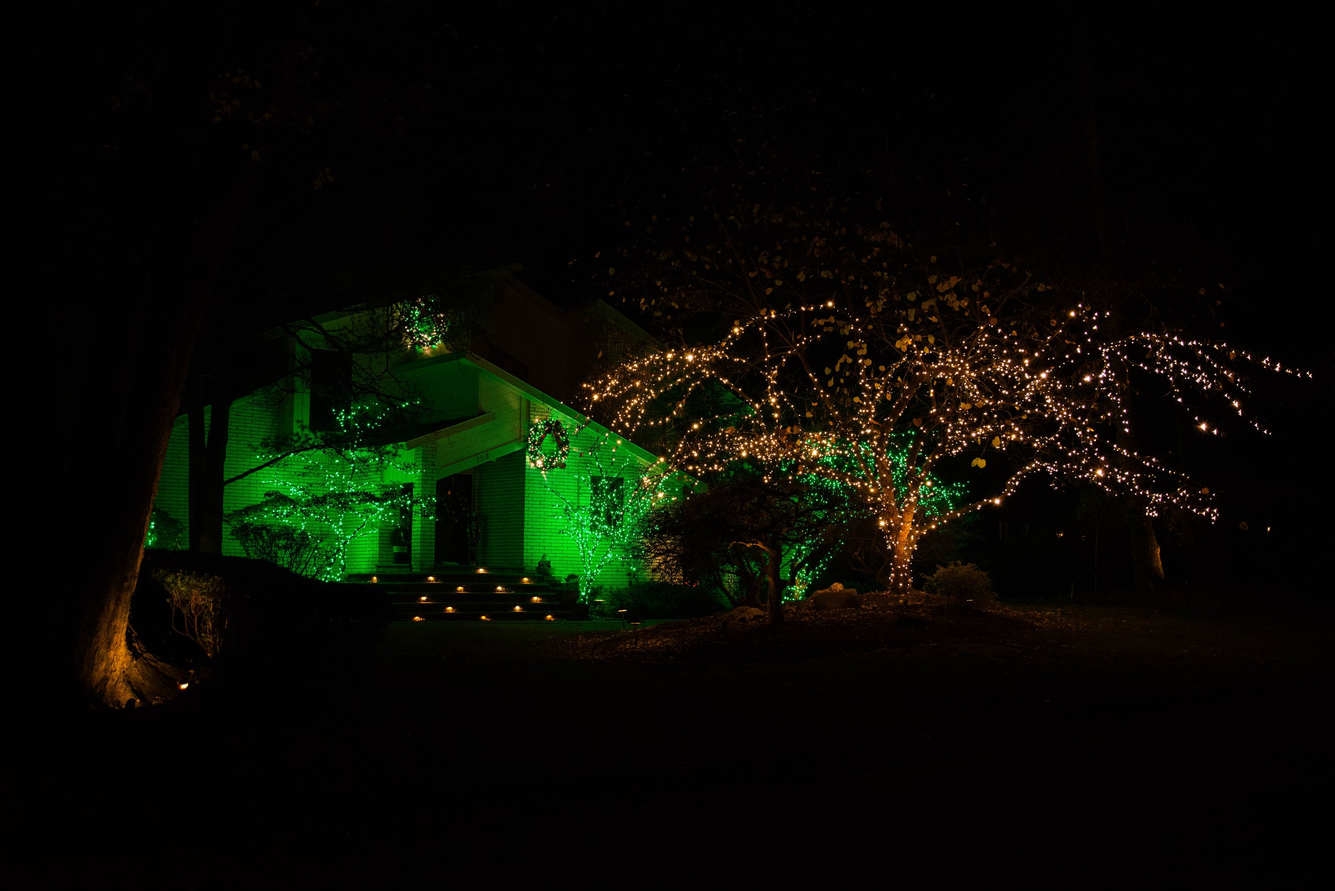
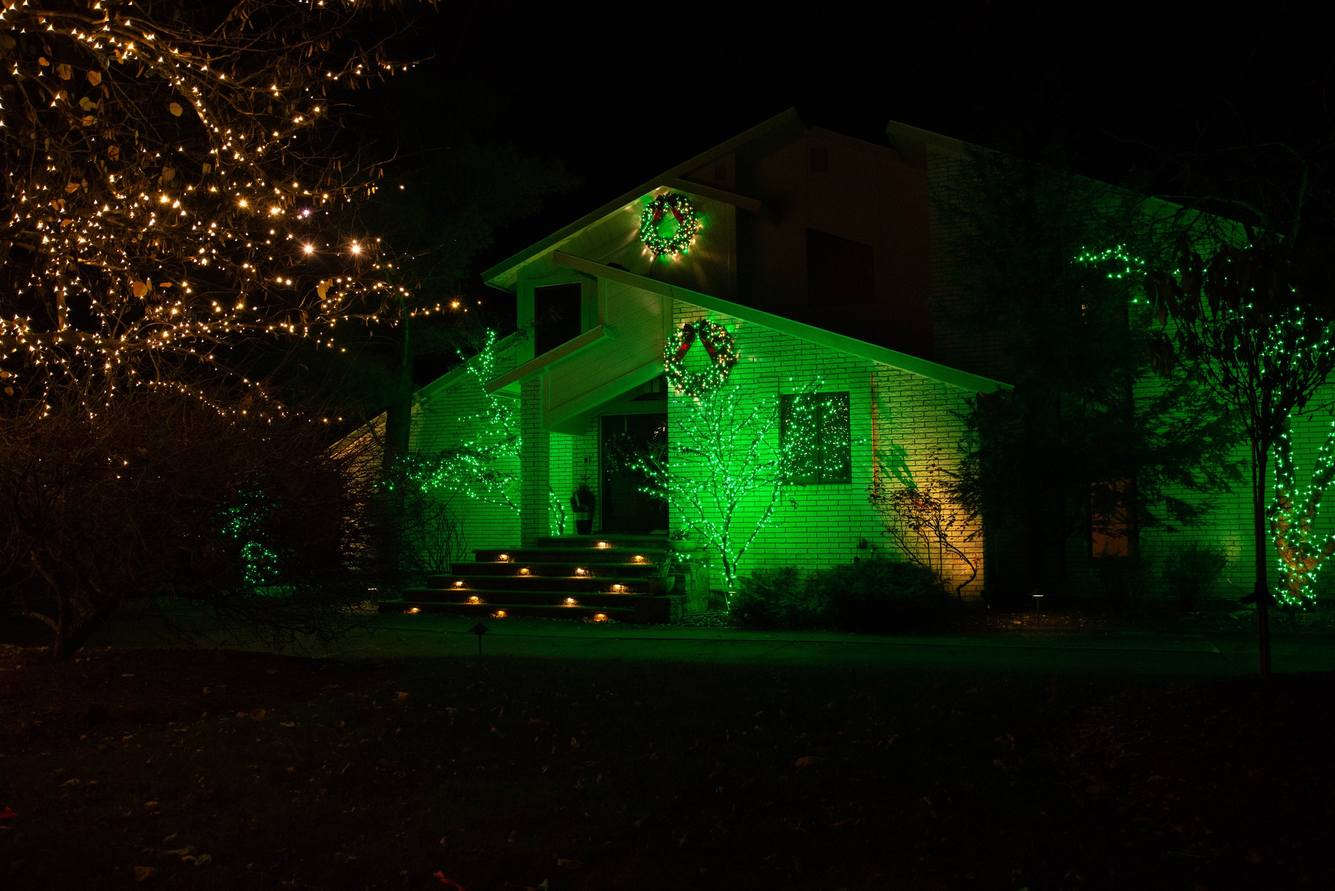
Replace Bloomfield Hills gallery slots 7/8/9/11 and wire them sitewide.
Add export sync script, gallery cache busting, and hide superseded bloomfield web copies from the public index.

diff --git a/includes/landing-pages.php b/includes/landing-pages.php
@@ -18,7 +18,7 @@ function mdhl_landing_pages(): array
             'h1' => 'Residential holiday lighting and décor for Metro Detroit homeowners',
             'intro' => 'Metro Detroit Holiday Lighting provides professional holiday décor installation across the region. From clean lit rooflines, to branch wrapped trees and greenery – we can bring your holiday vision to life. Let us brighten up your holidays and take the stress out of reaching those tall trees and peaks.',
             'hero_image' => 'assets/img/gallery/mdhl-bloomfield-hills-9.jpg',
-            'hero_alt' => 'Bloomfield Hills home with lighted wreaths, wrapped trees, and landscape lighting',
+            'hero_alt' => 'Bloomfield Hills estate with lighted wreaths, green tree wraps, and step lighting at night',
             'service_name' => 'Residential holiday lighting and décor',
             'gallery_heading' => 'Residential Installs',
             'gallery_match' => ['/^residential-/i', '/mdhl-bloomfield-hills/i'],
@@ -26,9 +26,7 @@ function mdhl_landing_pages(): array
                 'mdhl-bloomfield-hills-9.jpg',
                 'mdhl-bloomfield-hills-7.jpg',
                 'mdhl-bloomfield-hills-8.jpg',
-                'mdhl-bloomfield-hills-1.jpg',
-                'mdhl-bloomfield-hills-4.jpg',
-                'mdhl-bloomfield-hills-3.jpg',
+                'mdhl-bloomfield-hills-11.jpg',
             ],
             'related' => ['wreaths', 'tree-wraps', 'high-roof-lighting'],
             'sections' => [
@@ -42,20 +40,20 @@ function mdhl_landing_pages(): array
                         'Walkways and entrances',
                     ],
                     'image' => 'assets/img/gallery/mdhl-bloomfield-hills-7.jpg',
-                    'image_alt' => 'Residential holiday lighting on a brick home with wrapped trees and entrance wreaths',
+                    'image_alt' => 'Bloomfield Hills brick home with green wrapped trees and warm white branch lighting',
                 ],
                 [
                     'h2' => 'Holiday Light installers Metro Detroit homeowners can trust',
                     'body' => 'Steve works with you directly from the first quote to the final take down instilling an “owners touch” on every job he takes on.',
-                    'image' => 'assets/img/gallery/mdhl-bloomfield-hills-4.jpg',
-                    'image_alt' => 'Lit walkway and foundation plantings with wreath on a Metro Detroit home',
+                    'image' => 'assets/img/gallery/mdhl-bloomfield-hills-8.jpg',
+                    'image_alt' => 'Bloomfield Hills brick home with step lights, wreaths, and wrapped trees at night',
                     'image_fit' => 'natural',
                 ],
                 [
                     'h2' => 'Service across Oakland, Wayne, Macomb, and Genesee County',
                     'body' => 'We install holiday lighting for homes throughout southeastern Michigan—including Birmingham, Troy, Rochester Hills, Waterford, Clarkston, and neighboring Oakland communities, plus Genesee County cities such as Grand Blanc, Fenton, Flint, and Davison. Browse Service Areas for your city or call (248) 525-4715.',
-                    'image' => 'assets/img/gallery/mdhl-bloomfield-hills-1.jpg',
-                    'image_alt' => 'Brick ranch home with foundation shrubs and front door wreath lit for the holidays',
+                    'image' => 'assets/img/gallery/mdhl-bloomfield-hills-9.jpg',
+                    'image_alt' => 'Bloomfield Hills estate with wreaths, green tree wraps, and landscape lighting at night',
                 ],
             ],
             'faq' => [
@@ -210,7 +208,7 @@ function mdhl_landing_pages(): array
             'h1' => 'Holiday wreath installation service in Metro Detroit',
             'intro' => 'Need a holiday wreath installation service that looks finished from the street? Metro Detroit Holiday Lighting offers holiday wreath hanging service and lighted wreath installation for doors, porches, and building entrances across southeastern Michigan.',
             'hero_image' => 'assets/img/gallery/mdhl-bloomfield-hills-11.jpg',
-            'hero_alt' => 'Bloomfield Hills brick home with lighted wreaths on the gable and entry trees wrapped in green',
+            'hero_alt' => 'Bloomfield Hills home with gable and entry wreaths and green wrapped trees at night',
             'service_name' => 'Holiday wreath and garland installation',
             'gallery_match' => ['/^wreath-/i', '/wreath/i', '/garland/i', '/mdhl-bloomfield-hills/i'],
             'gallery_files' => [

diff --git a/bin/sync-bloomfield-exports.py b/bin/sync-bloomfield-exports.py
@@ -1,0 +1,78 @@
+"""Copy Bloomfield exports from assets/img/Untitled Export/ into masters, then optimize gallery.
+
+Naming in Untitled Export:
+  - Direct: mdhl-bloomfield-hills-7.jpg … 11.jpg → same slot in masters/
+  - Legacy drop names: 1→7, 2→8, 3→9, 4→11
+"""
+from __future__ import annotations
+
+import re
+import subprocess
+import sys
+from pathlib import Path
+
+ROOT = Path(__file__).resolve().parents[1]
+EXPORT = ROOT / "assets" / "img" / "Untitled Export"
+MASTERS = ROOT / "assets" / "img" / "masters" / "bloomfield-hills"
+GALLERY = ROOT / "assets" / "img" / "gallery"
+SLOTS = frozenset({"7", "8", "9", "11"})
+LEGACY = {"1": "7", "2": "8", "3": "9", "4": "11"}
+PATTERN = re.compile(r"^mdhl-bloomfield-hills-(\d+)\.jpg$", re.I)
+
+
+def main() -> None:
+    if not EXPORT.is_dir():
+        raise SystemExit(f"export folder missing: {EXPORT}")
+    MASTERS.mkdir(parents=True, exist_ok=True)
+
+    copies: list[tuple[Path, Path]] = []
+    direct_slots: set[str] = set()
+
+    for src in sorted(EXPORT.glob("mdhl-bloomfield-hills-*.jpg")):
+        m = PATTERN.match(src.name)
+        if not m:
+            continue
+        num = m.group(1)
+        if num in SLOTS:
+            direct_slots.add(num)
+            dst = MASTERS / src.name
+            copies.append((src, dst))
+
+    for src in sorted(EXPORT.glob("mdhl-bloomfield-hills-*.jpg")):
+        m = PATTERN.match(src.name)
+        if not m:
+            continue
+        num = m.group(1)
+        target = LEGACY.get(num)
+        if target is None:
+            continue
+        if target in direct_slots:
+            continue
+        dst = MASTERS / f"mdhl-bloomfield-hills-{target}.jpg"
+        copies.append((src, dst))
+
+    if not copies:
+        print(f"No exports found in {EXPORT}")
+        return
+
+    # Dedupe by destination; direct slot files are collected before legacy aliases.
+    by_dst: dict[Path, Path] = {}
+    for src, dst in copies:
+        by_dst[dst] = src
+
+    for dst, src in sorted(by_dst.items(), key=lambda x: x[0].name):
+        dst.write_bytes(src.read_bytes())
+        print(f"{src.name} -> masters/{dst.name}")
+
+    for n in ("1", "2", "3", "4"):
+        stray = GALLERY / f"mdhl-bloomfield-hills-{n}.jpg"
+        if stray.is_file():
+            stray.unlink()
+            print(f"removed gallery/{stray.name}")
+
+    opt = ROOT / "bin" / "optimize-mdhl-gallery.py"
+    subprocess.check_call([sys.executable, str(opt)], cwd=ROOT)
+
+
+if __name__ == "__main__":
+    main()

diff --git a/includes/config.php b/includes/config.php
@@ -152,13 +152,13 @@ $gallery_images = mdhl_gallery_images();
 $scroll_frame_defs = [
     [
         'file' => 'mdhl-bloomfield-hills-7.jpg',
-        'caption' => 'Holiday décor that reads in daylight',
-        'alt' => 'Bloomfield Hills home with holiday décor during the day',
+        'caption' => 'Tree wraps and landscape lighting after dark',
+        'alt' => 'Bloomfield Hills home with green tree wraps and warm white branch lighting at night',
     ],
     [
         'file' => 'mdhl-bloomfield-hills-8.jpg',
-        'caption' => 'The same display after dark',
-        'alt' => 'Bloomfield Hills home with holiday lighting at night',
+        'caption' => 'Wreaths, steps, and trees lit for the season',
+        'alt' => 'Bloomfield Hills brick home with lighted wreaths, step lights, and wrapped trees at night',
     ],
 ];
 
@@ -170,7 +170,7 @@ foreach ($scroll_frame_defs as $frame) {
     }
     $scroll_frames[] = [
         'file' => $frame['file'],
-        'url' => url('assets/img/gallery/' . rawurlencode($frame['file'])),
+        'url' => mdhl_asset_url('assets/img/gallery/' . $frame['file']),
         'caption' => $frame['caption'],
         'alt' => $frame['alt'],
     ];
@@ -179,8 +179,8 @@ unset($scroll_frame_defs, $frame, $path);
 
 $hero_image_rel = 'assets/img/gallery/mdhl-bloomfield-hills-8.jpg';
 $hero_image_file = dirname(__DIR__) . '/' . $hero_image_rel;
-$hero_image = is_file($hero_image_file) ? url($hero_image_rel) : '';
-$hero_image_alt = 'Bloomfield Hills home with holiday lighting by Metro Detroit Holiday Lighting';
+$hero_image = is_file($hero_image_file) ? mdhl_asset_url($hero_image_rel) : '';
+$hero_image_alt = 'Bloomfield Hills brick home with wreaths, green tree wraps, and step lights at night';
 if ($hero_image === '' && $gallery_images !== []) {
     $hero_image = $gallery_images[0]['url'];
     $hero_image_alt = $gallery_images[0]['alt'];

diff --git a/includes/gallery.php b/includes/gallery.php
@@ -2,6 +2,33 @@
 
 declare(strict_types=1);
 
+/** Web gallery basenames replaced by mdhl-bloomfield-hills-7/8/9/11 — hide from public index. */
+const MDHL_GALLERY_HIDDEN = [
+    'mdhl-bloomfield-hills-1.jpg',
+    'mdhl-bloomfield-hills-2.jpg',
+    'mdhl-bloomfield-hills-3.jpg',
+    'mdhl-bloomfield-hills-4.jpg',
+];
+
+/**
+ * Project-relative asset URL with cache-busting filemtime (gallery, img, etc.).
+ */
+function mdhl_asset_url(string $rel): string
+{
+    $rel = ltrim(str_replace('\\', '/', $rel), '/');
+    if ($rel === '') {
+        return url();
+    }
+    $base = url($rel);
+    $file = dirname(__DIR__) . '/' . $rel;
+    if (!is_file($file)) {
+        return $base;
+    }
+    $v = (int) filemtime($file);
+
+    return $base . (str_contains($base, '?') ? '&' : '?') . 'v=' . $v;
+}
+
 /**
  * Pixel dimensions for a project-relative image path (e.g. assets/img/gallery/foo.jpg).
  *
@@ -48,6 +75,9 @@ function mdhl_gallery_images(): array
         if (!preg_match('/\.(jpe?g|png|webp)$/i', $file)) {
             continue;
         }
+        if (in_array($file, MDHL_GALLERY_HIDDEN, true)) {
+            continue;
+        }
         $base = pathinfo($file, PATHINFO_FILENAME);
         $label = ucwords(str_replace(['-', '_'], ' ', $base));
         $fullPath = $dir . DIRECTORY_SEPARATOR . $file;
@@ -68,7 +98,7 @@ function mdhl_gallery_images(): array
         }
         $out[] = [
             'file' => $file,
-            'url' => url('assets/img/gallery/' . rawurlencode($file)),
+            'url' => mdhl_asset_url('assets/img/gallery/' . $file),
             'alt' => 'Holiday lighting by Metro Detroit Holiday Lighting — ' . $label,
             'width' => $width,
             'height' => $height,

diff --git a/index.php b/index.php
@@ -54,7 +54,7 @@ require __DIR__ . '/includes/header.php';
                 <<?= $cardTag ?> class="audience-stage<?= empty($audience['has_image']) ? ' audience-stage--placeholder' : '' ?>"<?= $cardAttrs ?>>
                     <div class="audience-stage__media" aria-hidden="true">
                         <?php if (!empty($audience['has_image'])): ?>
-                            <img src="<?= htmlspecialchars(url($audience['image'])) ?>" alt="" width="1200" height="700" loading="lazy" decoding="async">
+                            <img src="<?= htmlspecialchars(mdhl_asset_url((string) $audience['image'])) ?>" alt="" width="1200" height="700" loading="lazy" decoding="async">
                         <?php endif; ?>
                     </div>
                     <div class="audience-stage__shade" aria-hidden="true"></div>
@@ -98,7 +98,7 @@ require __DIR__ . '/includes/header.php';
         <div class="scroll-stage__shade" aria-hidden="true"></div>
         <div class="scroll-stage__ui">
             <div class="scroll-stage__ui-inner">
-                <p class="scroll-stage__kicker">Decorations for Day and Night</p>
+                <p class="scroll-stage__kicker">Decorations that shine at night</p>
                 <p class="scroll-stage__caption" data-scroll-caption><?= htmlspecialchars($scroll_frames[0]['caption']) ?></p>
                 <div class="scroll-stage__dots" role="presentation">
                     <?php foreach ($scroll_frames as $i => $_frame): ?>

diff --git a/includes/cities.php b/includes/cities.php
@@ -10,7 +10,7 @@ declare(strict_types=1);
  * - intro: unique 2–3 sentence lead (priority SEO cities)
  * - gallery_match: PCRE patterns for a small photo strip on the city page
  *
- * @return list<array{slug:string,name:string,county:string,nearby:list<string>,intro?:string,gallery_match?:list<string>}>
+ * @return list<array{slug:string,name:string,county:string,nearby:list<string>,intro?:string,gallery_match?:list<string>,gallery_files?:list<string>}>
  */
 function mdhl_cities(): array
 {
@@ -30,7 +30,12 @@ function mdhl_cities(): array
             'county' => 'Oakland',
             'nearby' => ['birmingham', 'west-bloomfield', 'troy', 'pontiac'],
             'intro' => 'Bloomfield Hills properties often mean taller peaks, longer gutters, and landscaping that deserves careful tree wraps. Metro Detroit Holiday Lighting plans displays around the architecture — owner-operated and fully insured — so estates and family homes look finished from the curb without anyone on a ladder.',
-            'gallery_match' => ['/^residential-/i', '/roof/i', '/rood/i', '/mdhl-bloomfield-hills/i'],
+            'gallery_files' => [
+                'mdhl-bloomfield-hills-9.jpg',
+                'mdhl-bloomfield-hills-7.jpg',
+                'mdhl-bloomfield-hills-8.jpg',
+                'mdhl-bloomfield-hills-11.jpg',
+            ],
         ],
         [
             'slug' => 'troy',

diff --git a/includes/render-landing.php b/includes/render-landing.php
@@ -32,7 +32,7 @@ $body_class = 'page-landing page-landing--' . $landing_slug;
 
 $hero_rel = (string) ($landing['hero_image'] ?? '');
 $hero_file = $hero_rel !== '' ? dirname(__DIR__) . '/' . $hero_rel : '';
-$landing_hero = ($hero_file !== '' && is_file($hero_file)) ? url($hero_rel) : '';
+$landing_hero = ($hero_file !== '' && is_file($hero_file)) ? mdhl_asset_url($hero_rel) : '';
 $landing_hero_alt = (string) ($landing['hero_alt'] ?? $landing['nav_label']);
 if ($landing_hero !== '') {
     $og_image = absolute_url(ltrim($hero_rel, '/'));
@@ -91,7 +91,7 @@ require __DIR__ . '/header.php';
     <?php
     $sectionImageRel = (string) ($section['image'] ?? '');
     $sectionImageFile = $sectionImageRel !== '' ? dirname(__DIR__) . '/' . $sectionImageRel : '';
-    $sectionImageUrl = ($sectionImageFile !== '' && is_file($sectionImageFile)) ? url($sectionImageRel) : '';
+    $sectionImageUrl = ($sectionImageFile !== '' && is_file($sectionImageFile)) ? mdhl_asset_url($sectionImageRel) : '';
     $sectionImageAlt = (string) ($section['image_alt'] ?? $section['h2']);
     $hasPanelImage = $sectionImageUrl !== '';
     $sectionDims = $hasPanelImage ? mdhl_image_dimensions_from_rel($sectionImageRel) : ['width' => 0, 'height' => 0];

diff --git a/bin/check-missing-images.php b/bin/check-missing-images.php
@@ -39,7 +39,9 @@ foreach ($scroll_frames as $frame) {
     $check('assets/img/gallery/' . $frame['file']);
 }
 
-$check('assets/img/gallery/mdhl-bloomfield-hills-8.jpg');
+foreach (['mdhl-bloomfield-hills-7.jpg', 'mdhl-bloomfield-hills-8.jpg', 'mdhl-bloomfield-hills-9.jpg', 'mdhl-bloomfield-hills-11.jpg'] as $bh) {
+    $check('assets/img/gallery/' . $bh);
+}
 $check('assets/img/gallery/hanging-the-wreath.jpg');
 $check('assets/img/logo-new.png');
 $check('assets/img/favicon.png');

diff --git a/service-areas/city.php b/service-areas/city.php
@@ -36,7 +36,9 @@ if ($cityIntro === '') {
 }
 
 $cityGallery = [];
-if (!empty($city['gallery_match']) && is_array($city['gallery_match'])) {
+if (!empty($city['gallery_files']) && is_array($city['gallery_files'])) {
+    $cityGallery = mdhl_gallery_pick_files($city['gallery_files']);
+} elseif (!empty($city['gallery_match']) && is_array($city['gallery_match'])) {
     $cityGallery = mdhl_gallery_for_landing($city['gallery_match'], 4);
 }
 
